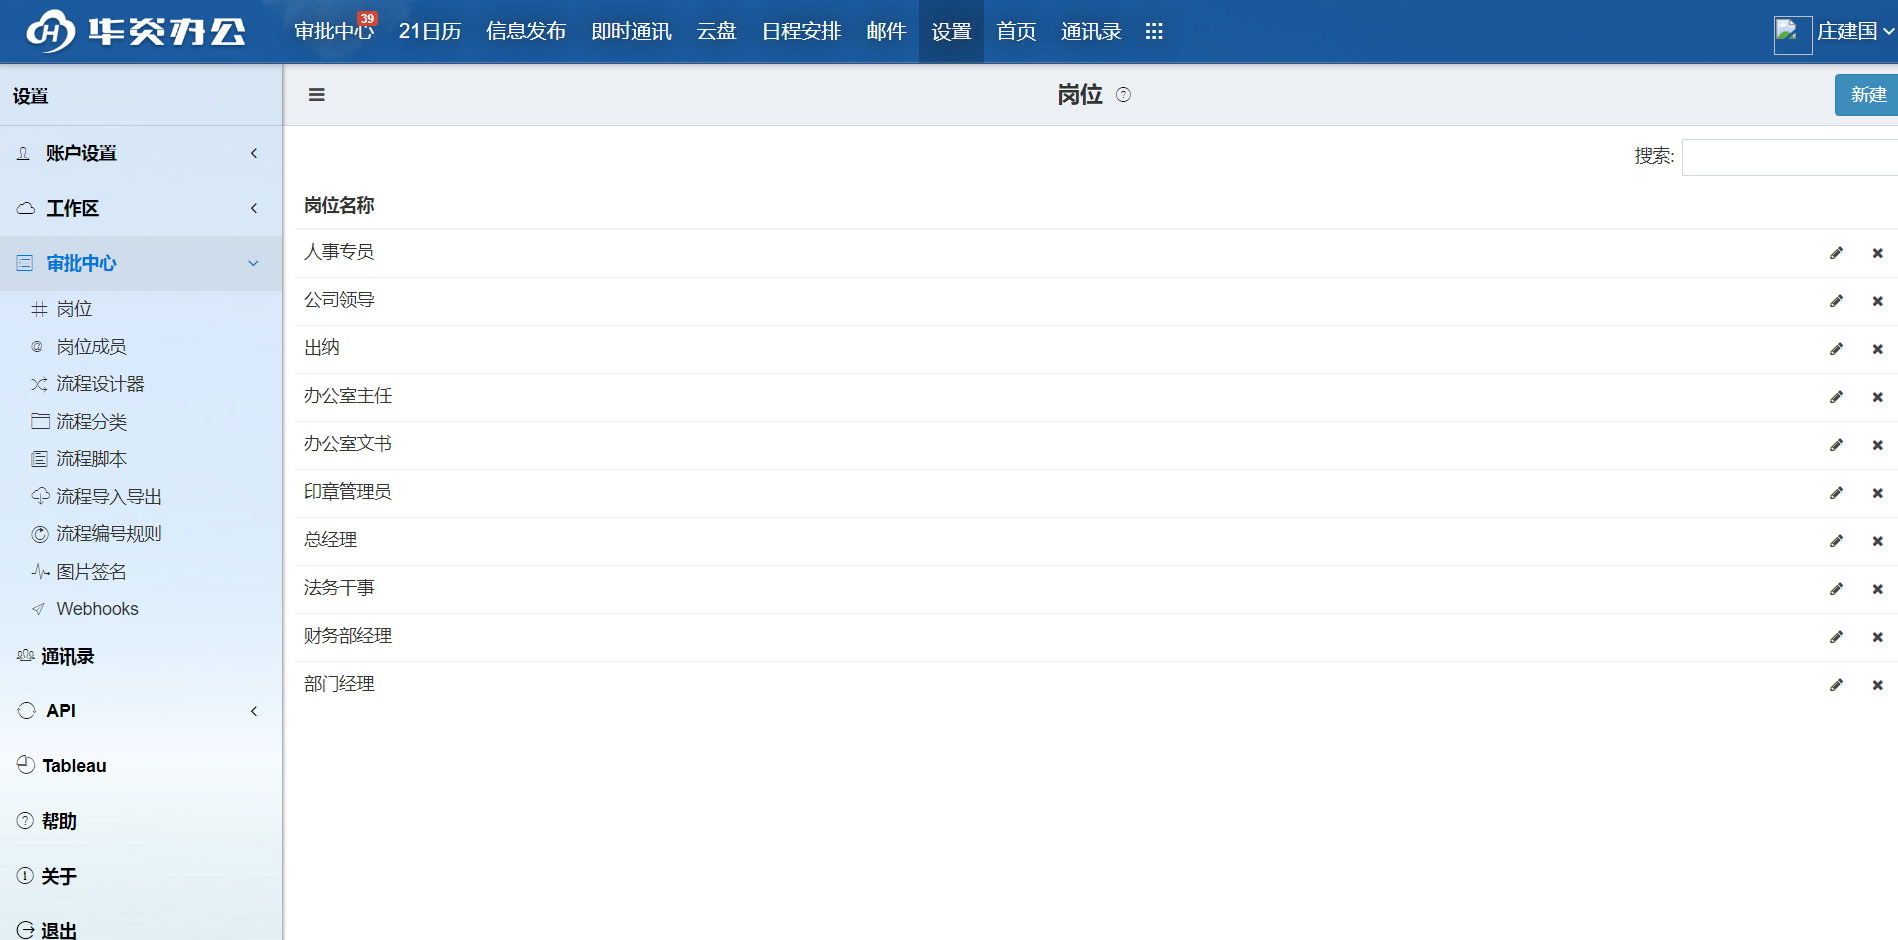
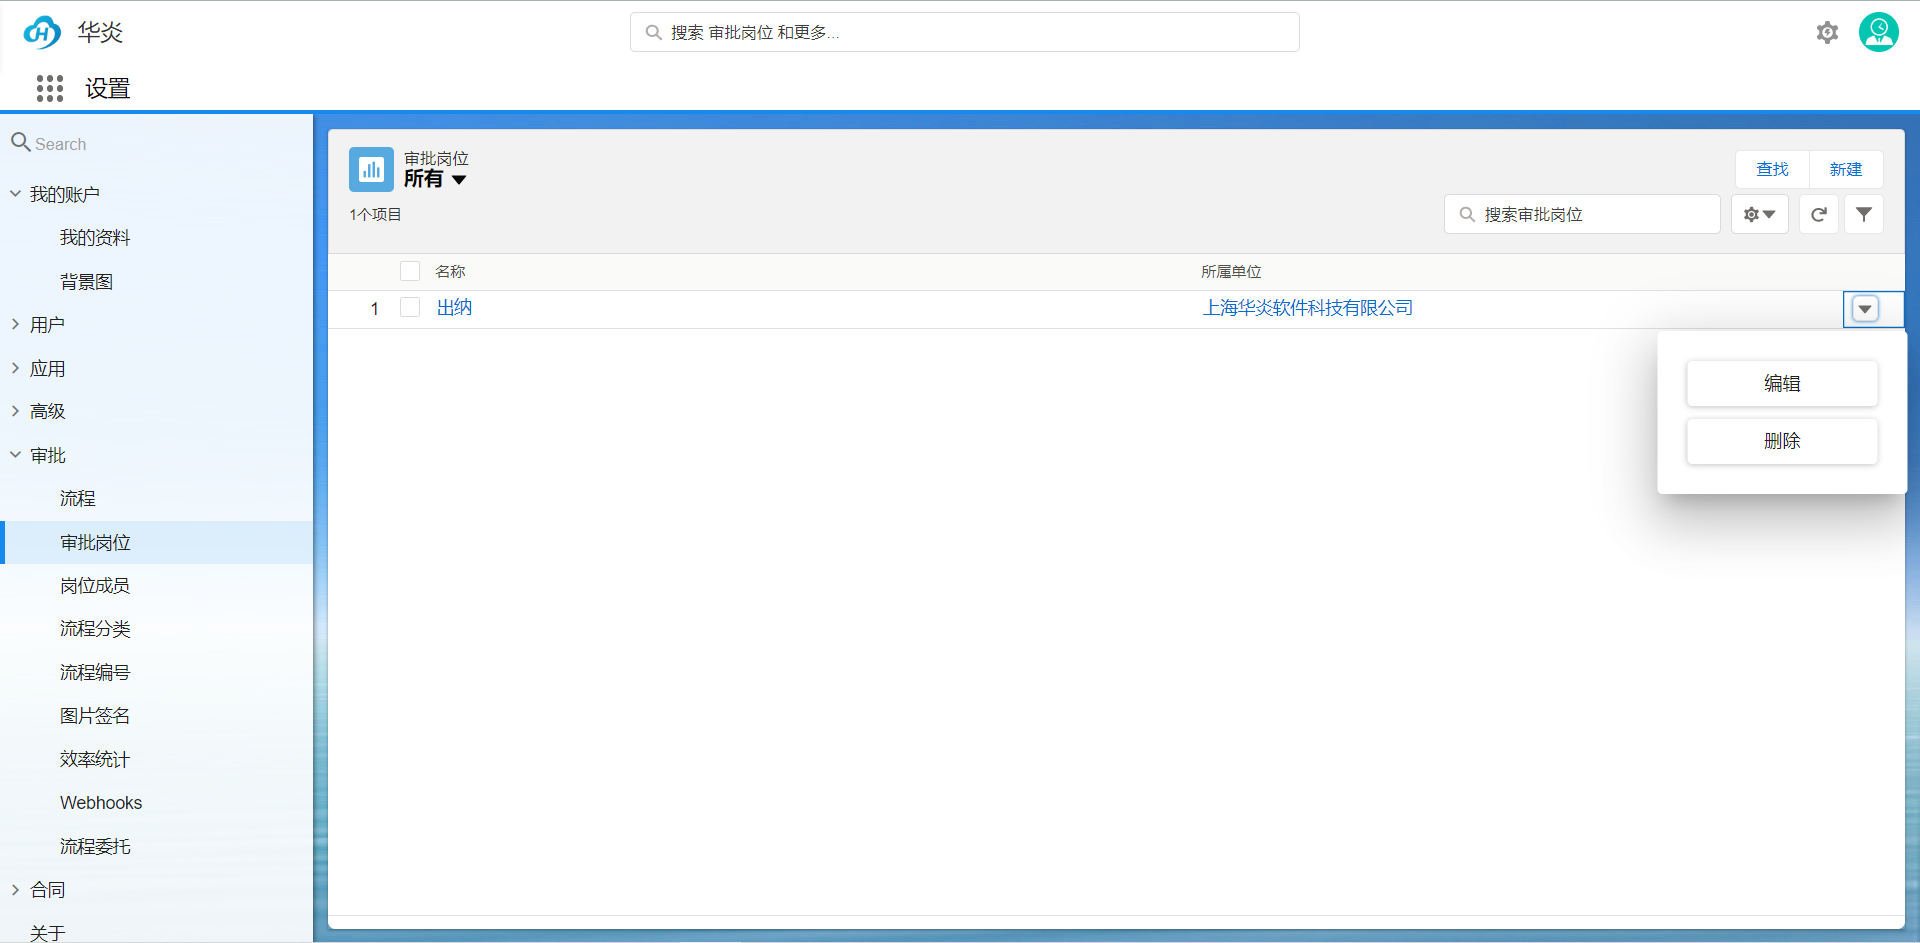
调整岗位和岗位成员说明文档

diff --git a/zh-cn/creator_workflow/admin_positions.md b/zh-cn/creator_workflow/admin_positions.md
@@ -1,13 +1,11 @@
 ### 岗位和岗位成员
-岗位，岗位是根据流程定的，不同的流程，经过的岗位不同，对应的处理人也不同。 本产品将岗位分为两种，一种审批范围为某个部门，如部门经理；一种审批范围为整个公司，如人事专员、法务、办公室主任、总经理等。
-
-注意：审批范围不等于管辖范围。
+岗位，岗位是根据流程定的，不同的流程，经过的岗位不同，对应的处理人也不同。 本产品将岗位分为两种，一种管辖范围为某个部门，如部门经理；一种管辖范围为整个公司，如人事专员、法务、办公室主任、总经理等。
 
 例如：一个普通员工请假，请假这件事，从开始提出申请，到部门经理审核，再根据请假天数判断是否上报总经理，再到人事部备案，最后通知提交人。整件事做下来，在不同的步骤需要不同的人来做。
 
-上例中的部门经理是一个岗位，审批范围就是本部门，在这个岗位的人需要审核请假单。但这个岗位的人可以不唯一，根据部门而定，财务部员工请假需要财务部经理审核，销售部员工请假需要销售部经理审核。同理，总经理也是一个岗位，审批范围是整个公司，这个岗位的人在一固定阶段是唯一的而且就是公司的总经理。
+上例中的部门经理是一个岗位，管辖范围就是本部门，在这个岗位的人需要审核请假单。但这个岗位的人可以不唯一，根据部门而定，财务部员工请假需要财务部经理审核，销售部员工请假需要销售部经理审核。同理，总经理也是一个岗位，管辖范围是整个公司，这个岗位的人在一固定阶段是唯一的而且就是公司的总经理。
 
-审批范围根据岗位不同而不同，同一个人在不同的岗位上审批范围就不同。如财务部经理，在请假流程上审批范围是财务部，在费用报销流程上审批范围就是整个公司。
+管辖范围根据岗位不同而不同，同一个人在不同的岗位上管辖范围就不同。如财务部经理，在请假流程上管辖范围是财务部，在费用报销流程上管辖范围就是整个公司。
 
 ![](images/组织架构.png)
 
@@ -21,9 +19,9 @@
    ![](images/岗位004.png)
 
  岗位设置的详细步骤：
- - 设置界面中，点击“审批中心”后，点击“岗位”。
+ - 设置界面中，点击“审批”后，点击“审批岗位”。
  - 点击右上角的“新建”按钮后弹出新建岗位的弹出框，在“岗位名称”中填写新建岗位的名称后，点击“创建”按钮，完成审批岗位的新增。
- -  在岗位列表页中，点击岗位名右侧的“笔形状”按钮、“×”按钮，可以对该岗位进行修改、删除。
+ -  在岗位列表页中，点击岗位名右侧的更多按钮，可以对该岗位进行修改、删除。
    
      ![](images/岗位1.png)
 
@@ -31,14 +29,13 @@
 “岗位成员”就是岗位上的处理人。假设岗位是“部门经理”，则“岗位成员”对应具体的部门的部门经理，例如人事部的部门经理，财务部的部门经理，技术部的部门经理。
    
  岗位成员设置的详细步骤：
- - 设置界面中，点击“审批中心”后，点击“岗位”，再点击每个岗位后的笔形按钮，会弹出岗位信息的窗口。
- - 在弹出的岗位信息窗口中，点击“新增”，岗位成员窗口，输入成员姓名和审批范围后，点击“添加”即可。
+ - 设置界面中，点击“审批”后，点击“岗位成员”，点击“新增”，岗位成员窗口，输入成员姓名和管辖范围后，点击“保存”即可，可以点击“保存并新建”继续添加新的岗位成员。
  - 在弹出的岗位信息窗口中，选择需要修改的岗位成员，可进行编辑和删除。
  
- 审批范围为全公司的岗位，比如办公室文书，人事专员，办公室主任等。   
+ 管辖范围为全公司的岗位，比如办公室文书，人事专员，办公室主任等。   
    
    ![](images/岗位2.png)
- 审批范围为某个部门的岗位，比如部门经理。  
+ 管辖范围为某个部门的岗位，比如部门经理。  
    
    ![](images/岗位3.png)
 
@@ -49,4 +46,4 @@
  注意：
 
 - **一个用户可以对应多个岗位** ，例如，同一个人，既是办公室的部门经理，也是公司的办公室主任。
-- **一个岗位也可以有多个用户**，（对应相同或不同的审批范围即部门）。例如，“部门经理”的岗位，可以财务部的岗位成员1人、人事部的岗位成员是2人，这样，人事部的审批过程中，有时需要在这两个部门经理中选择一人。
+- **一个岗位也可以有多个用户**，（对应相同或不同的管辖范围即部门）。例如，“部门经理”的岗位，可以财务部的岗位成员1人、人事部的岗位成员是2人，这样，人事部的审批过程中，有时需要在这两个部门经理中选择一人。

diff --git a/zh-cn/creator_workflow/admin_organizations.md b/zh-cn/creator_workflow/admin_organizations.md
@@ -8,8 +8,8 @@
 ![](images/部门1.png)
 #### 新增部门
 
-- **一级部门。**在工作区的设置界面，选择“部门”，点击部门列表右上角上的“新建”按钮，输入名称、上级部门（非必填）、排序号，添加成员(系统用户)和部门管理员点击“保存”即完成一级部门的新增，或点击“保存并新建”继续添加其他部门。
-   注意：新增部门页面有个“隐藏”可选按钮，选中之后，普通用户在通讯录里是看不到此部门的，部门管理员在组织架构里看到的此部门为灰色。
+- **一级部门。**在工作区的设置界面，选择“部门”，点击部门列表右上角上的“新建”按钮，输入名称、上级部门（非必填）、排序号，添加成员（系统用户）和部门管理员点击“保存”即完成一级部门的新增，或点击“保存并新建”继续添加其他部门。
+   注意：新增部门页面有个“隐藏”勾选按钮，选中之后，普通用户在通讯录里是看不到此部门的，部门管理员在组织架构里看到的此部门为灰色。
 ![](images/部门2.png)
 - **下级部门。**如果您要在某一部门下增加一个下级部门，则在新增部门页面，选择上级部门；也可以先选择这个部门，然后新增一个部门，默认的上级部门就是选择的这个部门。
 ![](images/添加子部门.png)
